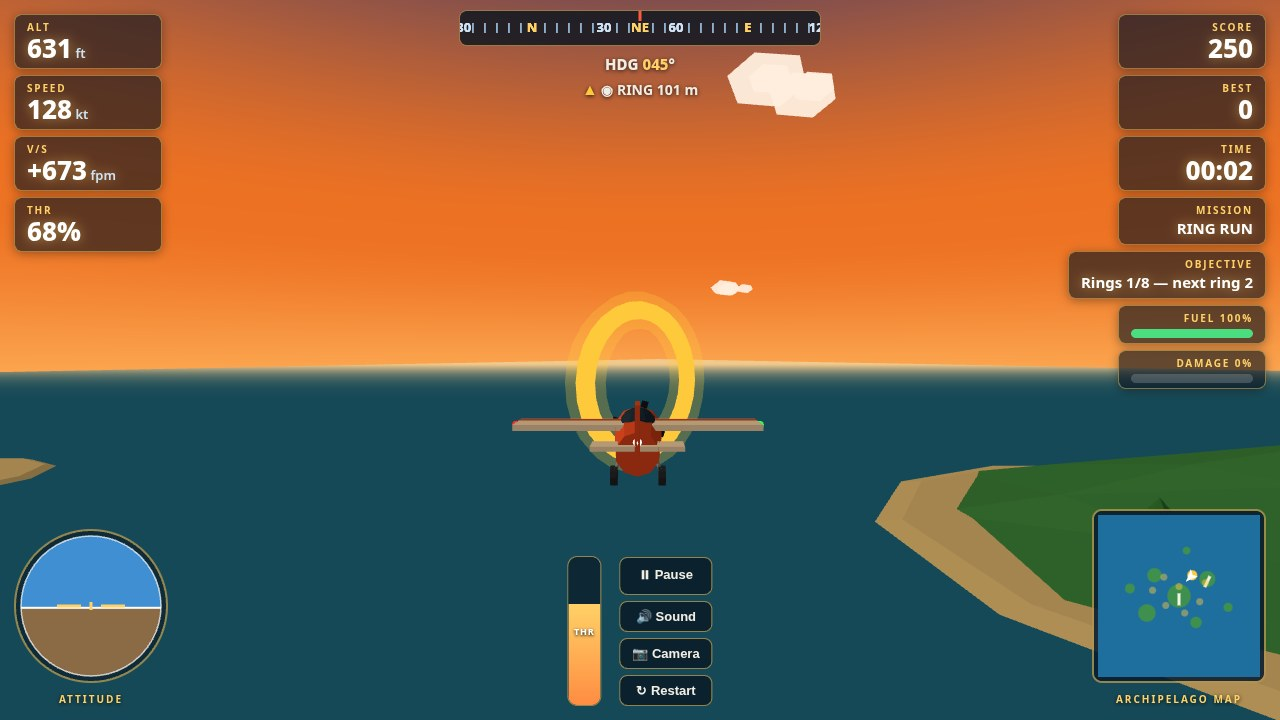
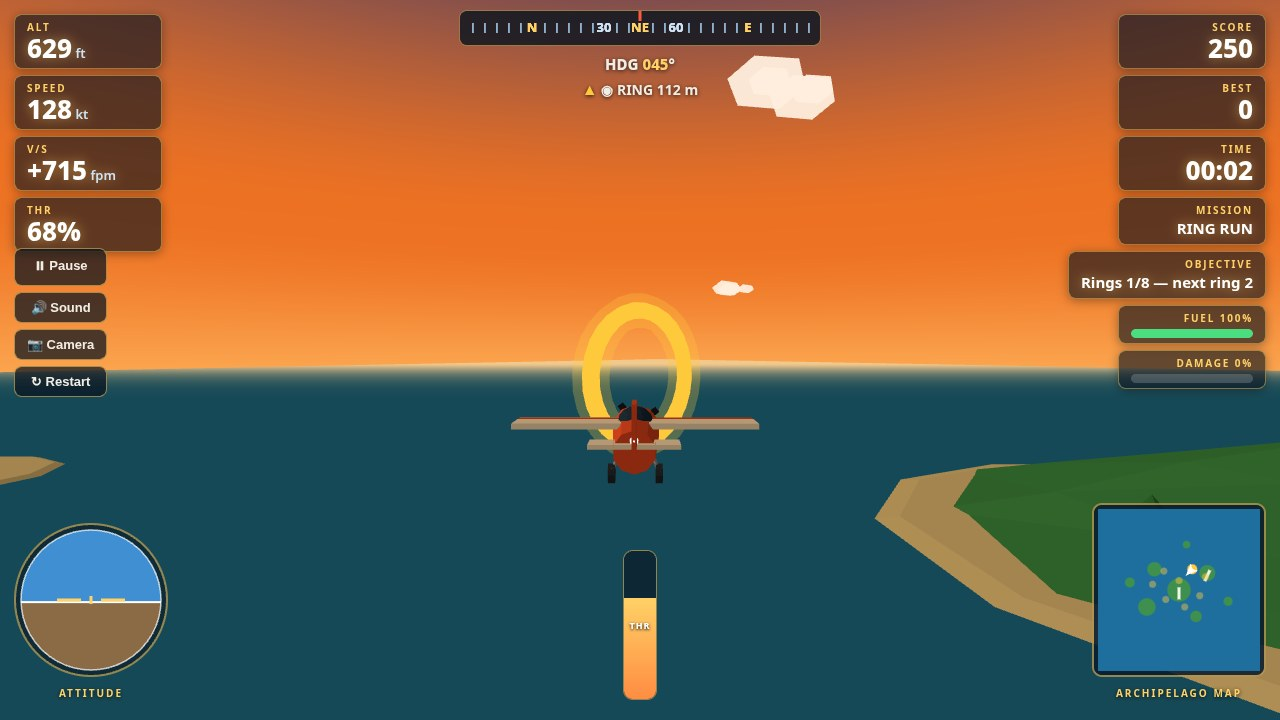
Move menu buttons off the aircraft, fix compass edge clipping
- Pause/Sound/Camera/Restart move from bottom-centre (where the chase
  camera puts the plane) to the free left edge, mid-screen, below the
  gauge stack and above the attitude dial: never over the aircraft,
  still one click away, no overlap with any other HUD panel
- Compass strip: heading/degree labels now keep 18 px clearance from
  the canvas edges so a label is never half-clipped by the strip border
- Bottom HUD blocks sit 6 px higher (bottom 20 px) so captions stay
  clear of the frame edge
- Screenshots retaken: plane fully visible in all four, buttons
  verified clickable (real mouse click opens the pause overlay)

diff --git a/game/style.css b/game/style.css
@@ -35,13 +35,16 @@ body { font-family: system-ui, -apple-system, "Segoe UI", Roboto, sans-serif; co
 #target-line { margin-top: 4px; font-size: 14px; font-weight: 700; text-shadow: 0 1px 4px rgba(0, 0, 0, 0.8); }
 #target-arrow { display: inline-block; color: #ffc93c; font-size: 16px; transition: transform 0.1s linear; }
 #hud-timer.urgent { color: #ff5a3c; }
-.hud-bottom-left, .hud-bottom-right { position: absolute; bottom: 14px; text-align: center; }
+.hud-bottom-left, .hud-bottom-right { position: absolute; bottom: 20px; text-align: center; }
 .hud-bottom-left { left: 14px; }
 .hud-bottom-right { right: 14px; }
 #horizon, #minimap { border-radius: 50%; border: 2px solid rgba(255, 209, 102, 0.55); background: rgba(8, 18, 30, 0.55); }
 #minimap { border-radius: 10px; }
 .hud-caption { font-size: 10px; letter-spacing: 0.2em; color: #ffd166; font-weight: 700; margin-top: 4px; text-shadow: 0 1px 4px rgba(0, 0, 0, 0.8); }
-.hud-bottom-center { position: absolute; bottom: 14px; left: 50%; transform: translateX(-50%); display: flex; gap: 18px; align-items: flex-end; pointer-events: auto; }
+.hud-bottom-center { position: absolute; bottom: 20px; left: 50%; transform: translateX(-50%); display: flex; gap: 18px; align-items: flex-end; pointer-events: auto; }
+/* Menu buttons: pinned to the free left edge, mid-screen — clear of the
+   gauges above, the attitude dial below, and the aircraft in the centre. */
+.hud-buttons.hud-left-mid { position: absolute; left: 14px; top: 248px; pointer-events: auto; z-index: 6; }
 #throttle-slider {
   position: relative; width: 34px; height: 150px; border-radius: 10px;
   background: rgba(8, 18, 30, 0.62); border: 1px solid rgba(255, 209, 102, 0.55);

diff --git a/game/index.html b/game/index.html
@@ -50,12 +50,17 @@
 
   <div class="hud-bottom-center">
     <div id="throttle-slider" title="Throttle — drag, or hold Shift / Ctrl"><div id="throttle-fill"></div><div id="throttle-knob">THR</div></div>
-    <div class="hud-buttons">
-      <button id="btn-pause" type="button">⏸ Pause</button>
-      <button id="btn-mute" type="button">🔊 Sound</button>
-      <button id="btn-camera" type="button">📷 Camera</button>
-      <button id="btn-restart" type="button">↻ Restart</button>
-    </div>
+  </div>
+
+  <!-- Menu buttons live on the free left edge, mid-screen: the plane in the
+       chase camera always sits near the centre of the screen, so nothing
+       may sit in the middle band. Left-middle is empty (gauges end above,
+       attitude dial starts below) and stays clear of the aircraft. -->
+  <div class="hud-buttons hud-left-mid">
+    <button id="btn-pause" type="button">⏸ Pause</button>
+    <button id="btn-mute" type="button">🔊 Sound</button>
+    <button id="btn-camera" type="button">📷 Camera</button>
+    <button id="btn-restart" type="button">↻ Restart</button>
   </div>
 </div>
 

diff --git a/game/src/hud.js b/game/src/hud.js
@@ -40,6 +40,11 @@ function drawCompass(ctx, headingDeg) {
     const x = w / 2 + rel * 2.4;
     if (x < -10 || x > w + 10) continue;
     const label = labels.find(([d]) => d === ((deg % 360) + 360) % 360);
+    const isText = label || deg % 30 === 0;
+    // Text is centre-aligned: keep it clear of the canvas edges so a
+    // heading or degree number is never half-clipped by the strip border.
+    // Ticks are 1.5 px wide and may run right up to the edge.
+    if (isText && (x < 18 || x > w - 18)) continue;
     if (label) {
       ctx.fillStyle = '#ffd166';
       ctx.fillText(label[1], x, h / 2);
